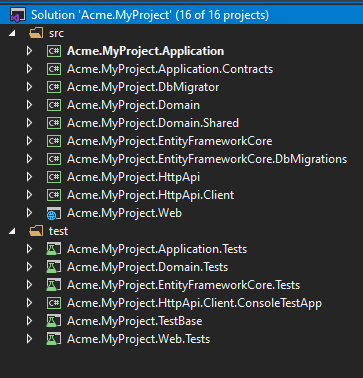
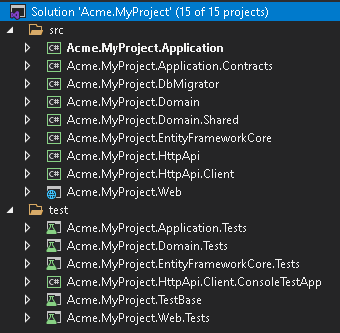
update docs documentation
ref ( #9284 )

Changed region(s): [[0.0, 0.0, 1.0, 0.991], [0.0588, 0.1201, 0.0882, 0.4805]]

diff --git a/docs/en/Modules/Docs.md b/docs/en/Modules/Docs.md
@@ -38,7 +38,7 @@ Note that this document covers `Entity Framework Core` provider but you can also
 
 ### 2- Running The Empty Application
 
-After you download the project, extract the ZIP file and open `Acme.MyProject.sln`. You will see that the solution consists of `Application`, `Application.Contracts`, `DbMigrator`, `Domain`, `Domain.Shared`, `EntityFrameworkCore`, `EntityFrameworkCore.DbMigations`, `HttpApi`, `HttpApi.Client` and `Web` projects. Right click on `Acme.MyProject.Web` project and **Set as StartUp Project**.
+After you download the project, extract the ZIP file and open `Acme.MyProject.sln`. You will see that the solution consists of `Application`, `Application.Contracts`, `DbMigrator`, `Domain`, `Domain.Shared`, `EntityFrameworkCore`, `HttpApi`, `HttpApi.Client` and `Web` projects. Right click on `Acme.MyProject.Web` project and **Set as StartUp Project**.
 
 ![Create a new project](../images/docs-module_solution-explorer.png)
 
@@ -237,15 +237,15 @@ If you choose Entity Framework as your database provider, you need to configure 
     }
   ```
 
-* Open `Package Manager Console` in `Visual Studio` and choose `Acme.MyProject.EntityFrameworkCore.DbMigrations` as default project. Then write the below command to add the migration for Docs Module.
+* Open `Package Manager Console` in `Visual Studio` and choose `Acme.MyProject.EntityFrameworkCore` as default project. Then write the below command to add the migration for Docs Module.
 
   ```csharp
   add-migration Added_Docs_Module
   ```
 
-  When the command successfully executes , you will see a new migration file named as `20181221111621_Added_Docs_Module` in the folder `Acme.MyProject.EntityFrameworkCore.DbMigrations\Migrations`.
+  When the command successfully executes , you will see a new migration file named as `20181221111621_Added_Docs_Module` in the folder `Acme.MyProject.EntityFrameworkCore\Migrations`.
 
-  Now, update the database for Docs module database changes. To do this run the below code on `Package Manager Console` in `Visual Studio`.  Be sure `Acme.MyProject.EntityFrameworkCore.DbMigrations` is still default project.
+  Now, update the database for Docs module database changes. To do this run the below code on `Package Manager Console` in `Visual Studio`.  Be sure `Acme.MyProject.EntityFrameworkCore` is still default project.
 
   ```csharp
   update-database
